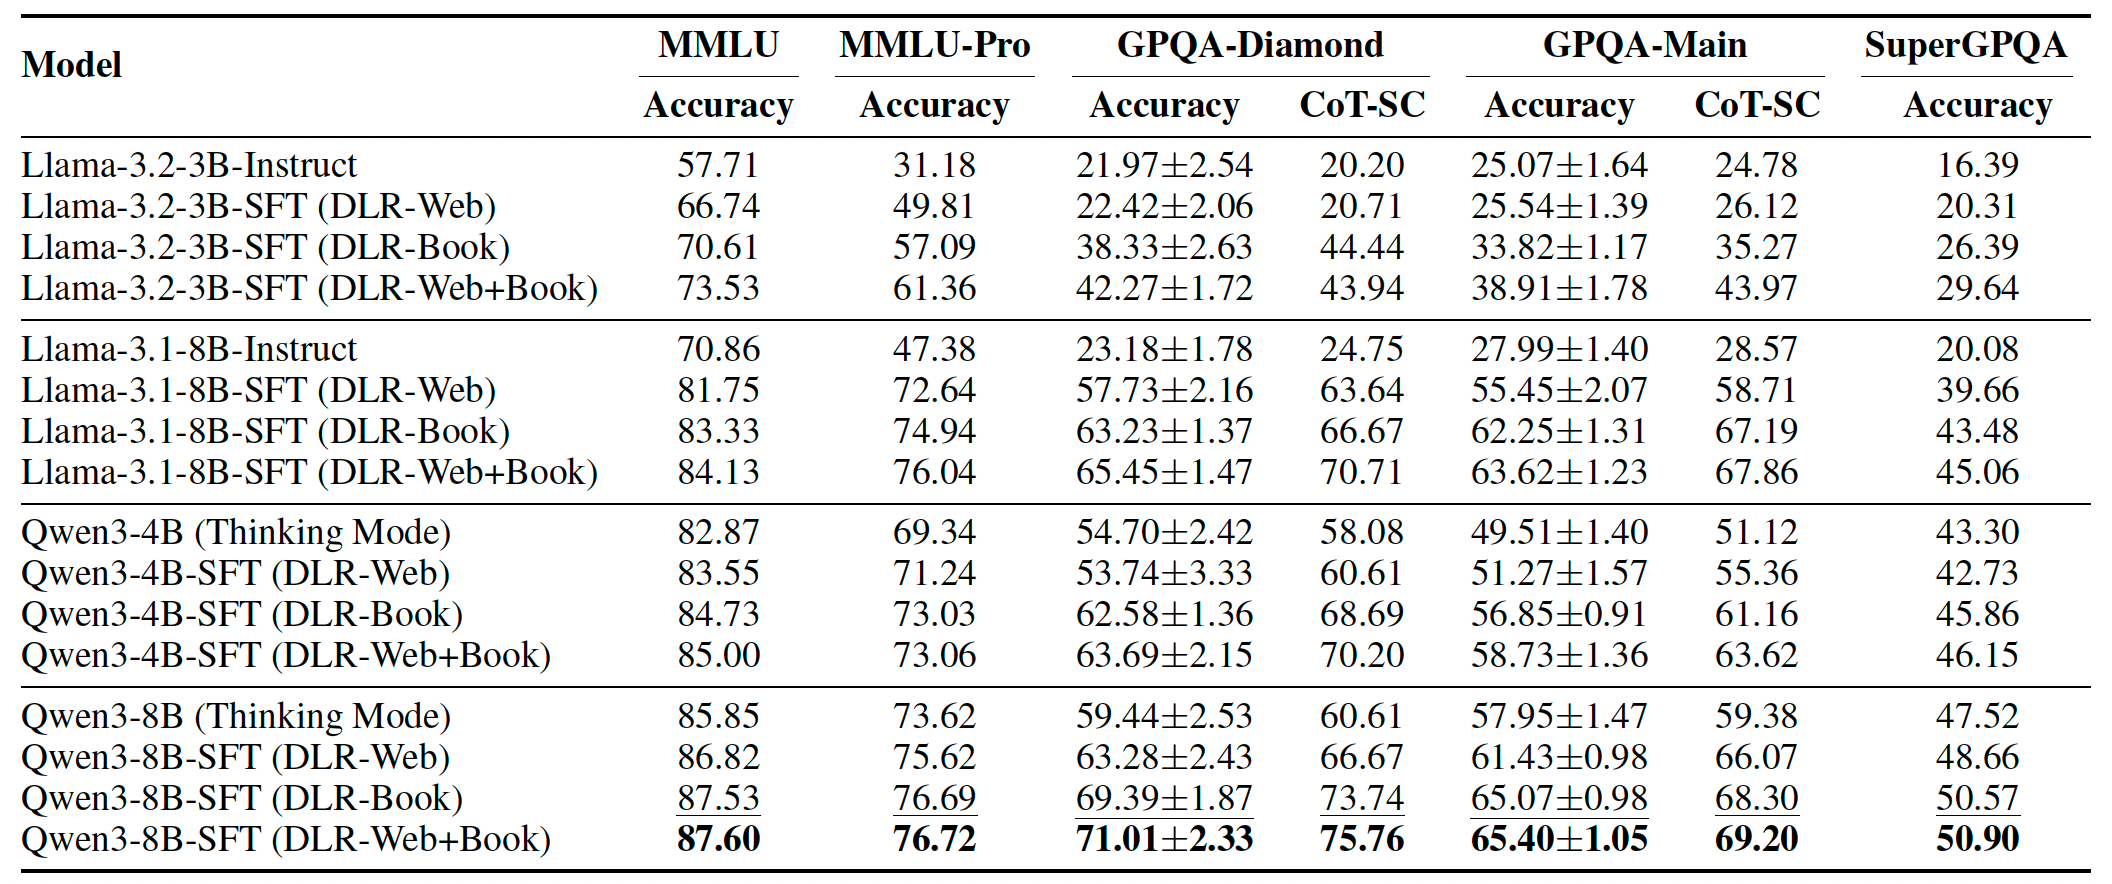
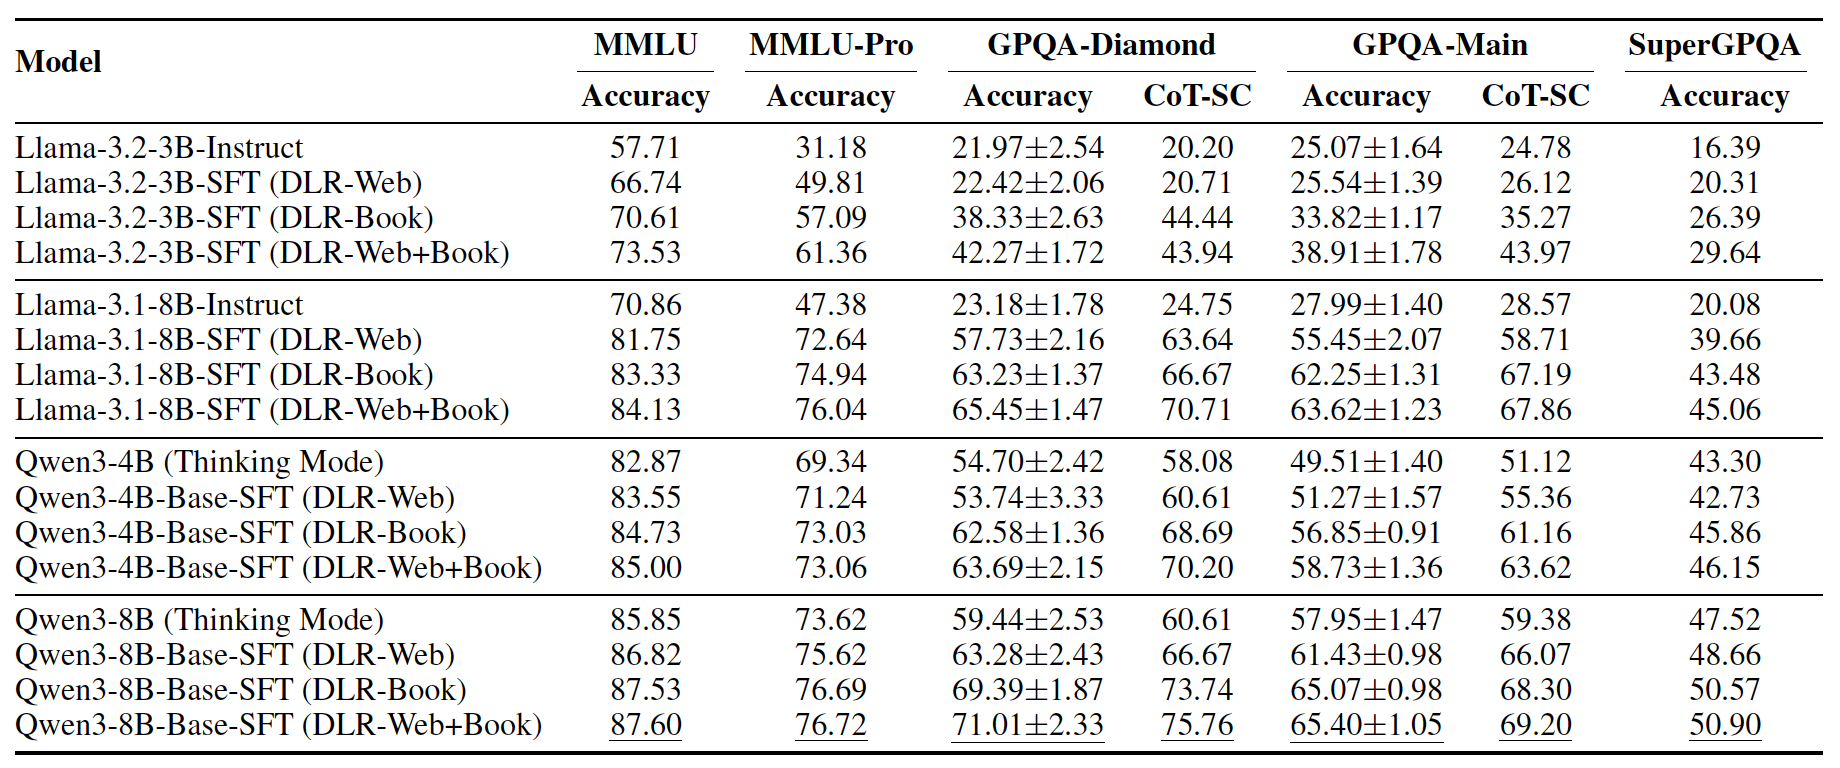
Update

Changed region(s): [[0.0, 0.0, 0.9913, 1.0], [0.0, 0.0625, 0.062, 0.0938]]

diff --git a/index.html b/index.html
@@ -170,7 +170,7 @@
                         <h2 class="title is-3" style="margin-bottom:1rem;">Abstract</h2>
                         <div class="content has-text-justified">
                             <p>
-                                Large language models (LLMs) have achieved remarkable success in many natural language tasks but still struggle with complex, multi-step reasoning, particularly across diverse disciplines. Existing reasoning datasets often lack disciplinary breadth, reasoning depth, and diversity, and lack guiding principles for question synthesis. We propose DESIGNER: a DESIGN-logic-guidEd Reasoning data synthesis pipeline that leverages naturally available, extensive raw documents (e.g., book corpus and web corpus) to generate multidisciplinary challenging questions. We introduce the concept of "design logic" and instruct LLMs to mimic human educators' question-creation process, enabling automated synthesis of large-scale, high-difficulty questions. We use LLMs to reverse-engineer and abstract over 120,000 design logics from existing questions across various disciplines. By matching these design logics with source documents, we are able to create reasoning questions that far surpass the difficulty and diversity of existing datasets. Using this pipeline, we synthesized two large-scale reasoning datasets that span 75 disciplines: DLR-Book (3.04 million questions from the book corpus) and DLR-Web (1.66 million questions from the web corpus). Data analysis indicates that the questions synthesized by our method exhibit greater difficulty and diversity compared to those in the baseline datasets. We validate our synthesized data through supervised fine-tuning (SFT) on the Qwen3 and Llama3 model families. Our data substantially enhances their multidisciplinary reasoning capabilities, outperforming existing datasets. Notably, after SFT on our datasets, the base versions of these models even surpass their official instruction-tuned counterparts.
+                                Large language models (LLMs) have achieved remarkable success in many natural language tasks but still struggle with complex, multi-step reasoning, particularly across diverse disciplines. Existing reasoning datasets often lack disciplinary breadth, reasoning depth, and diversity, as well as guiding principles for question synthesis. We propose DESIGNER: a DESIGN-logic-guidEd Reasoning data synthesis pipeline that leverages naturally available, extensive raw documents (e.g., book corpus and web corpus) to generate multidisciplinary challenging questions. We introduce the concept of "design logic" and instruct LLMs to mimic human educators' question-creation process, enabling the automated synthesis of large-scale, high-difficulty questions. We use LLMs to reverse-engineer and abstract over 120,000 design logics from existing questions across various disciplines. By matching these design logics with source documents, we are able to generate reasoning questions with controllable question types and difficulty levels. Using this pipeline, we synthesized two large-scale reasoning datasets that span 75 disciplines: DLR-Book (3.04 million questions from the book corpus) and DLR-Web (1.66 million questions from the web corpus). Data analysis indicates that the questions synthesized by our method exhibit greater difficulty and diversity compared to those in the baseline datasets. We validate our synthesized data through supervised fine-tuning (SFT) on the Qwen3 and Llama3 model families. Our data substantially enhances their multidisciplinary reasoning capabilities, outperforming existing datasets. Notably, by applying SFT on the base versions of these models using only our data, we even surpass their official final models that have undergone the full post-training process.
                             </p>
                         </div>
                     </div>
